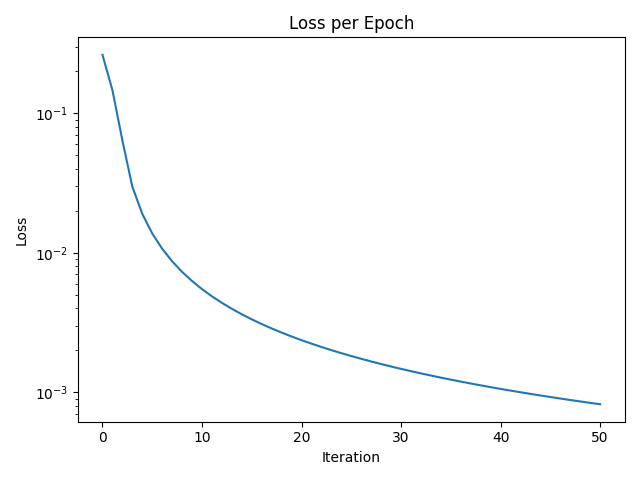
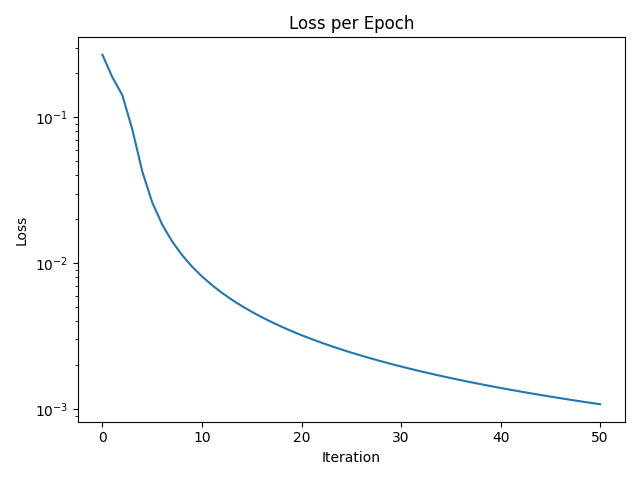
Add task 11 to exercise_04.py - Add figures - Update requirements.txt

diff --git a/exercise_04.py b/exercise_04.py
@@ -1,8 +1,12 @@
 from Models import NeuralNetwork
+from Models.Activations import Sigmoid
 from exercise_02 import make_binary_clusters
+import torchvision
 import numpy as np
+from scipy import ndimage
 import matplotlib.pyplot as plt
 import seaborn as sns
+from typing import Tuple
 
 
 def task_9():
@@ -14,8 +18,8 @@ def task_9():
     net.bias[1] = np.array([[-0.6], [0.5]])
 
     # Set the input and target
-    x0 = np.array([[1.], [2.]])
-    y = np.array([[0.0], [1.0]])
+    x0 = np.array([[1., 2.]])
+    y = np.array([[0.0, 1.0]])
 
     # Compute the forward pass
     result = net.forward(x0)
@@ -67,6 +71,78 @@ def task_10():
     fig.show()
 
 
+def load_and_preprocess_mnist(train: bool, root_dir: str = './data') -> Tuple[np.ndarray, np.ndarray]:
+    # Load the MNIST dataset using torchvision
+    mnist = torchvision.datasets.MNIST(root_dir, download=True, train=train)
+    X = mnist.data
+    y = mnist.targets
+
+    # Obtain the indices for the data points labeled with 6 or 9
+    subset_indices = np.where(np.logical_or(y.numpy() == 6, y.numpy() == 9))
+
+    # Transform the dataset to the required shape
+    X = X[subset_indices].numpy()
+    y = y[subset_indices].numpy()
+    y = np.where(y == 6, 0, 1)
+    X = X.reshape(X.shape[0], -1)
+    y = y.reshape(-1, 1)
+
+    # Normalize the features
+    X = X / 255.0
+
+    return X, y
+
+
+def rotate_image(image: np.ndarray, angle: float) -> np.ndarray:
+    return ndimage.rotate(image, angle, reshape=False)
+
+
+def task_11():
+    # Load the MNIST train and test sets
+    X_train, y_train = load_and_preprocess_mnist(train=True)
+    X_test, y_test = load_and_preprocess_mnist(train=False)
+
+    # Print the shapes of the train and test sets
+    print(f'Train features shape: {X_train.shape}', f'Train labels shape: {y_train.shape}')
+    print(f'Test features shape: {X_test.shape}', f'Test labels shape: {y_test.shape}')
+
+    # Create a NeuralNetwork instance and train it on the dataset
+    model = NeuralNetwork(neurons_per_layer=[X_train.shape[1], 1], activations=[Sigmoid()])
+    model.train(x=X_train, y=y_train, eta=0.001, iterations=200, mode='batch')
+
+    # Let the model predict both the train and test sets
+    train_predictions = model.forward(X_train)
+    train_predictions = np.where(train_predictions > 0.5, 1, 0)
+    test_predictions = model.forward(X_test)
+    test_predictions = np.where(test_predictions > 0.5, 1, 0)
+
+    # Print the accuracy of the model on both the train and test sets
+    print(f'Train accuracy: {np.mean(train_predictions == y_train)}')
+    print(f'Test accuracy: {np.mean(test_predictions == y_test)}')
+
+    # Let the model predict a rotated samples with a 9
+    angles = np.arange(0, 361, 15)
+    selected_image = X_test[np.where(y_test == 1)[0][5]].reshape(28, 28)
+    rotated_samples = np.array([rotate_image(selected_image, angle).flatten() for angle in angles])
+    predictions = model.forward(rotated_samples).squeeze()
+
+    # Plot some of the rotated samples
+    fig, axs = plt.subplots(nrows=2, ncols=3, tight_layout=True)
+    for i, ax in enumerate(axs.flatten()):
+        ax.imshow(rotated_samples[3*i].reshape(28, 28), cmap='gray')
+        ax.set(title=f'Angle: {angles[3*i]}° \n Prediction: {predictions[3*i]:.2f}')
+    fig.savefig('Figures/exercise_04/Rotation_Samples.png')
+    fig.show()
+
+    # Plot the predictions
+    fig, ax = plt.subplots(tight_layout=True)
+    sns.lineplot(x=angles, y=predictions, ax=ax)
+    ax.set(title='Predictions', xlabel='Angle', ylabel='Probability')
+    fig.savefig('Figures/exercise_04/Rotation_Probabilities.png')
+    fig.show()
+
+
 if __name__ == '__main__':
-    # task_9()
+    task_9()
     task_10()
+    task_11()

diff --git a/Models/Networks.py b/Models/Networks.py
@@ -2,6 +2,7 @@ from .Losses import SquaredError, Loss
 from .Activations import Sigmoid, Activation
 from typing import List
 import numpy as np
+from tqdm import tqdm
 
 
 class NeuralNetwork:
@@ -121,7 +122,8 @@ class NeuralNetwork:
 
         # Loop over the iterations and save the loss after each iteration
         loss = [self.loss(y, self.forward(x))]
-        for i in range(iterations):
+        for _ in tqdm(range(iterations)):
+            weight_gradients, bias_gradients = None, None
             if mode == 'sgd':
                 # Compute the gradients for each individual sample
                 for j in range(x.shape[0]):
